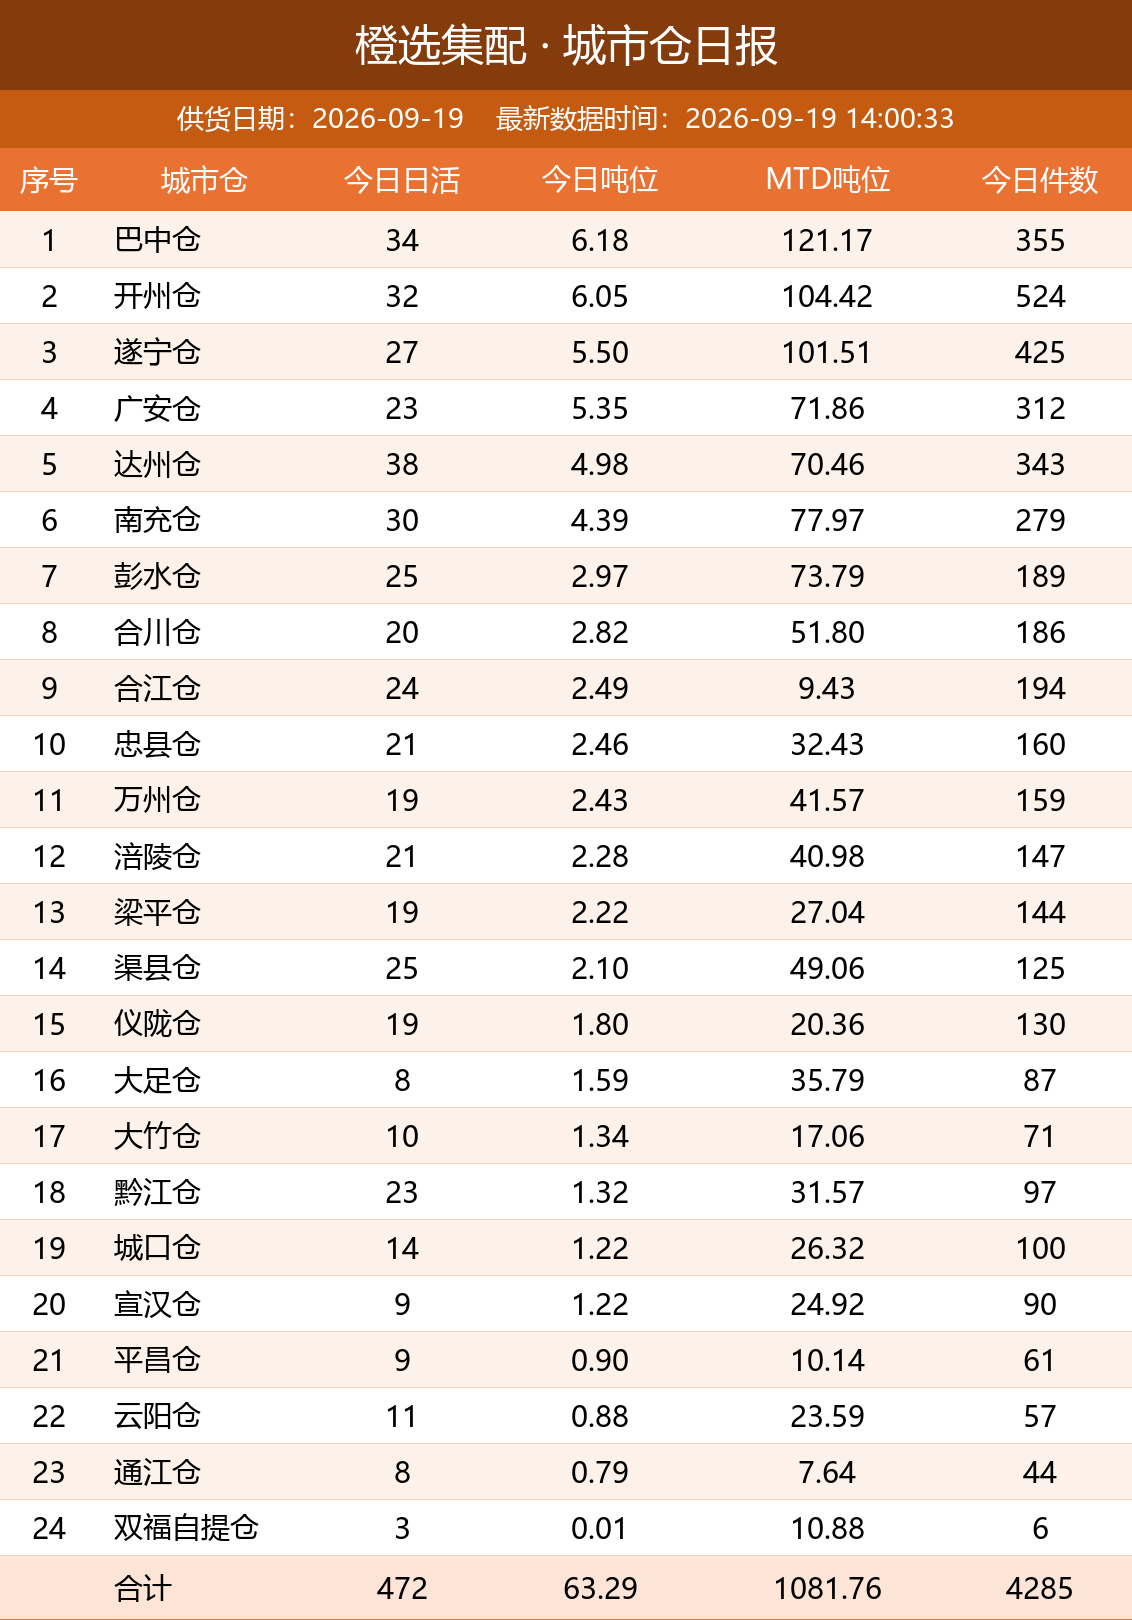
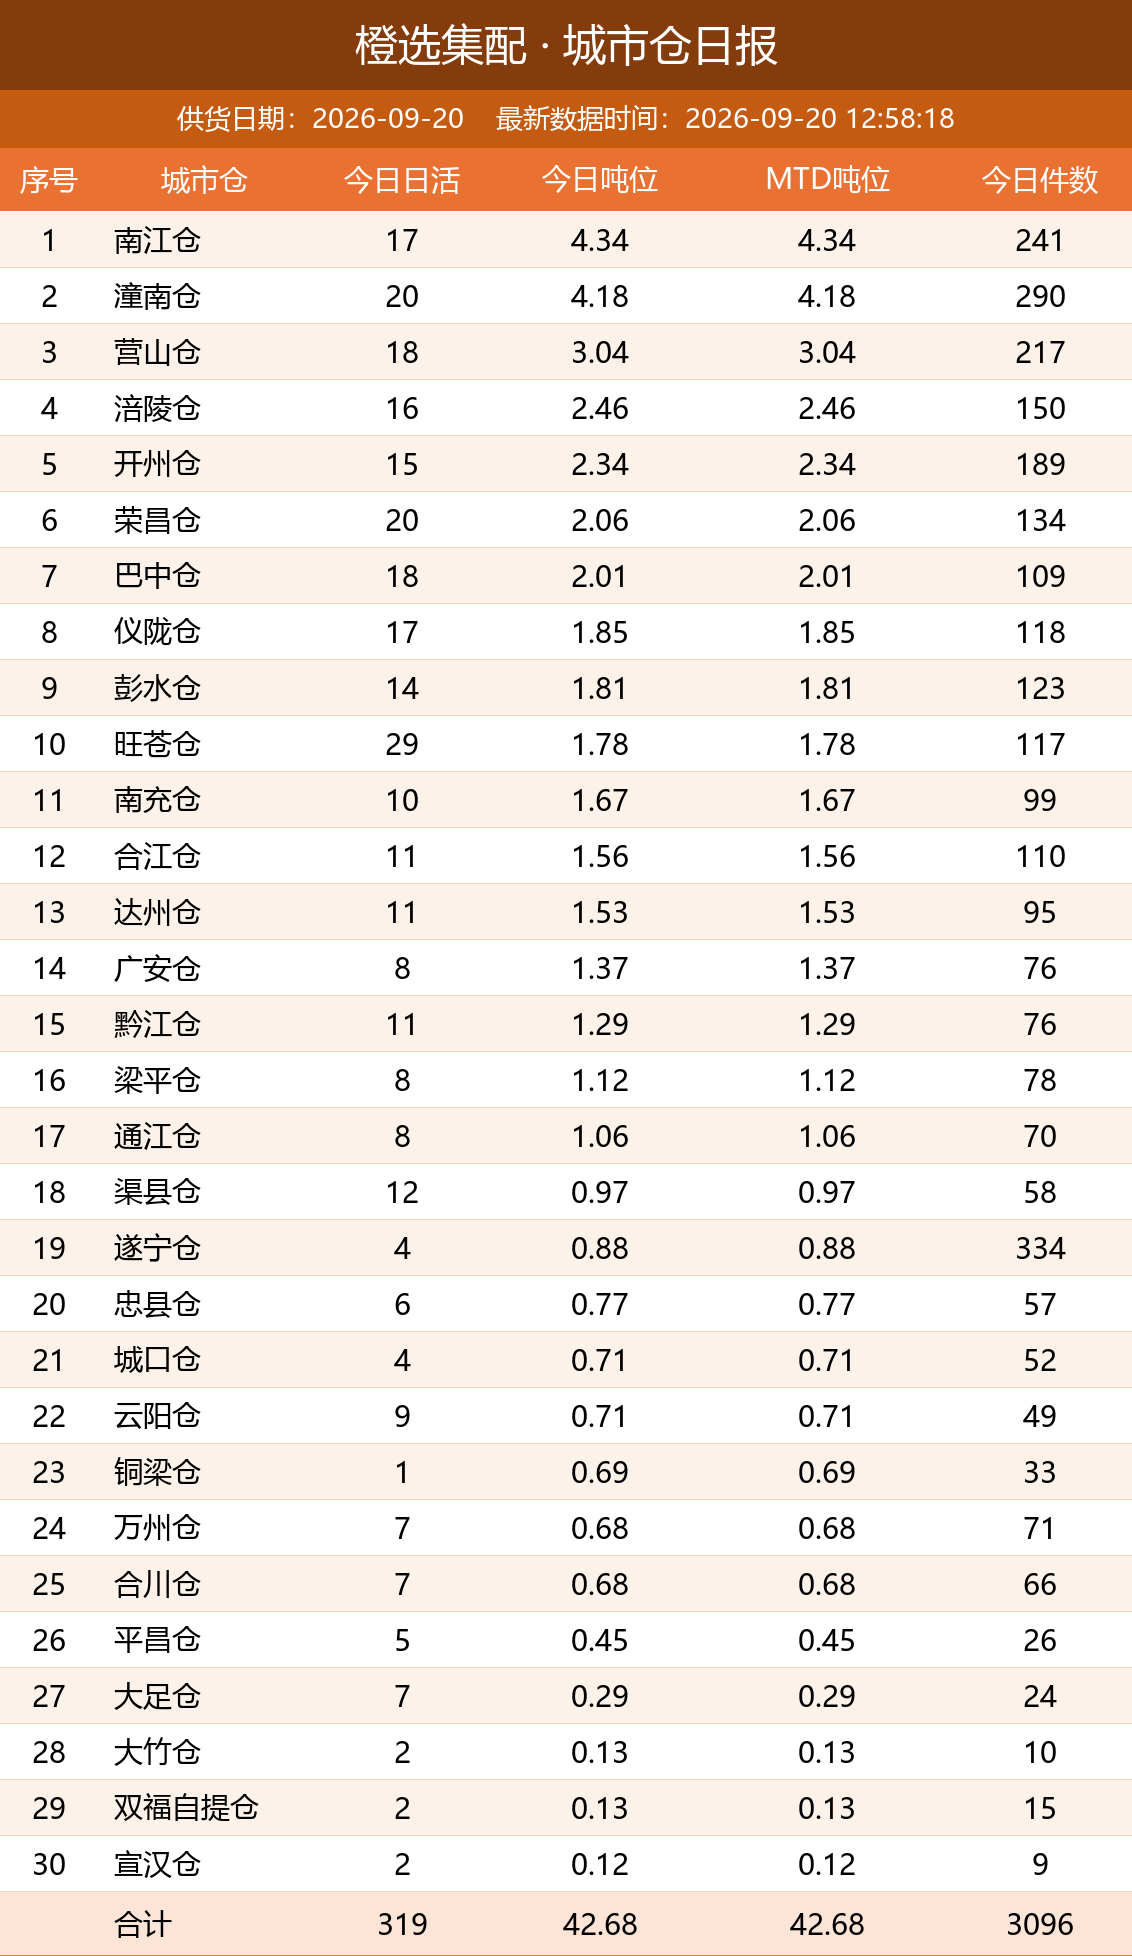
自动更新日报图片

Changed region(s): [[0.0, 0.0, 1.0, 1.0]]

diff --git a/daily_report/index.html b/daily_report/index.html
@@ -11,7 +11,7 @@ img { max-width: 100%; border: 1px solid #e5e5e5; margin-bottom: 24px; display: 
 </style>
 </head>
 <body>
-<h1>橙选集配日报图片（20260919_140118）</h1>
+<h1>橙选集配日报图片（20260920_125830）</h1>
 <img src="bd_latest.png" alt="BD 日报">
 <img src="wh_latest.png" alt="城市仓日报">
 <img src="zs_latest.png" alt="招商日报">
